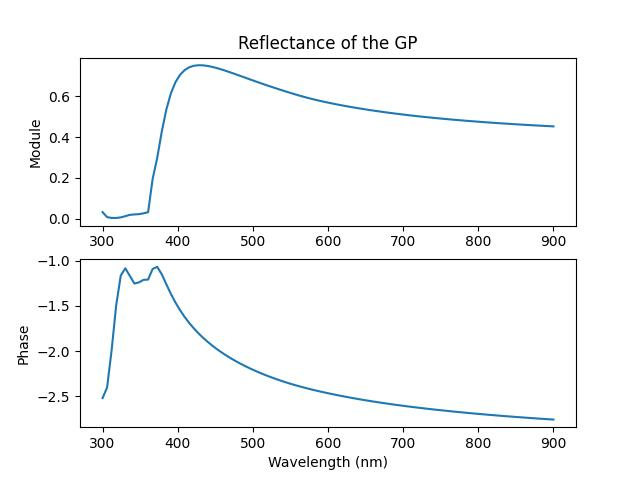
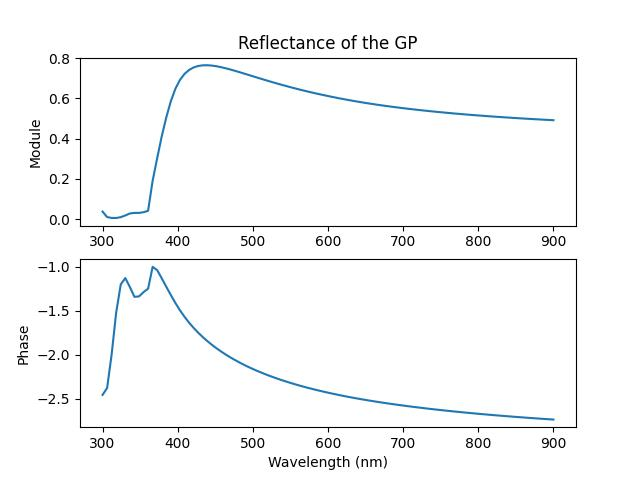
update conique OK sans PML

diff --git a/conique/rcwa2d.py b/conique/rcwa2d.py
@@ -162,48 +162,64 @@ def reflectance(width_reso, width_gap, width_metallicLayer, period, perm_dielec,
     R_GP = abs(r) ** 2
     phase_R_GP = np.angle(r)
 
-    return r, R_GP, phase_R_GP, position_GP
+    return r, R_GP, phase_R_GP, position_GP, neff_GP
 
-wavelength = 600
-
-width_reso = 70
+width_reso = 80
 width_gap = 10
-width_metallicLayer = 220
+width_metallicLayer = 210
 
-#period = 300
 angle = 0
 polarization = 1
 
 perm_dielec = 1
-perm_metal = epsAgbb(wavelength)
 
-n_mod = 70
+n_mod = 150
 
-### Etude de la variation de la réflexion du GP en fonction de la periode
-list_period = np.linspace(100,600,100)
-RGP = np.empty(list_period.size)
-RGP_phase = np.empty(list_period.size)
-idx = 0
-for period in list_period:
-    r, RGP[idx], RGP_phase[idx], position_GP_func = reflectance(width_reso, width_gap, width_metallicLayer, period, perm_dielec, perm_metal, angle, wavelength, polarization, n_mod)
-    idx += 1
+# ### Etude de la variation de la permittivité de l'argent en fonction de la longueur d'onde
+# period = 300
+# list_wavelength = np.linspace(300,900,100)
+# perm_metal = np.empty(list_wavelength.size, dtype = complex)
+# idx = 0
+# for wavelength in list_wavelength:
+#     perm_metal[idx] = epsAgbb(wavelength)
+#     idx += 1
 
-plt.figure(2)
-plt.subplot(211)
-plt.plot(list_period, RGP)
-plt.ylabel("Module")
-plt.title("Reflectance of the GP")
-plt.subplot(212)
-plt.plot(list_period, RGP_phase)
-plt.xlabel("Period (nm)")
-plt.ylabel('Phase')
-plt.show(block=False)
-plt.savefig("R_gp_rcwa2D_depending_period.jpg")
+# plt.figure(1)
+# plt.plot(list_wavelength, perm_metal)
+# plt.ylabel("Real Permittivity")
+# plt.title("Permittivity of the silver")
+# plt.xlabel("Wavelength (nm)")
+# plt.show(block=False)
+# plt.savefig("silver_perm_python.jpg")
 
-### Validation de la fonction reflectance : OK
+# ### Etude de la variation de la réflexion du GP en fonction de la periode
+# wavelength = 600
+# perm_metal = epsAgbb(wavelength)
 
-    ## avec la fonction
-#r_func, R_GP_func, phase_R_GP_func, position_GP_func = reflectance(width_reso, width_gap, width_metallicLayer, period, perm_dielec, perm_metal, angle, wavelength, polarization, n_mod)
+# list_period = np.linspace(100,600,100)
+# RGP = np.empty(list_period.size)
+# RGP_phase = np.empty(list_period.size)
+# idx = 0
+# for period in list_period:
+#     r, RGP[idx], RGP_phase[idx], position_GP_func = reflectance(width_reso, width_gap, width_metallicLayer, period, perm_dielec, perm_metal, angle, wavelength, polarization, n_mod)
+#     idx += 1
+
+# plt.figure(2)
+# plt.subplot(211)
+# plt.plot(list_period, RGP)
+# plt.ylabel("Module")
+# plt.title("Reflectance of the GP")
+# plt.subplot(212)
+# plt.plot(list_period, RGP_phase)
+# plt.xlabel("Period (nm)")
+# plt.ylabel('Phase')
+# plt.show(block=False)
+# plt.savefig("R_gp_rcwa2D_depending_period.jpg")
+
+# ## Validation de la fonction reflectance : OK
+
+#     # avec la fonction
+# r_func, R_GP_func, phase_R_GP_func, position_GP_func = reflectance(width_reso, width_gap, width_metallicLayer, period, perm_dielec, perm_metal, angle, wavelength, polarization, n_mod)
 
 # print("avec la fonction")
 # print("R_GPf = ", R_GP_func)
@@ -211,27 +227,42 @@ plt.savefig("R_gp_rcwa2D_depending_period.jpg")
 # print("rf = ", r_func)
 # print("position GP =", position_GP_func)
 
-# ### Etude de la variation de la réflexion du GP en fonction de la longueur d'onde
-# list_wavelength = np.linspace(300,900,100)
-# RGP = np.empty(list_wavelength.size)
-# RGP_phase = np.empty(list_wavelength.size)
-# idx = 0
-# for wavelength in list_wavelength:
-#     perm_metal = epsAgbb(wavelength)
-#     r, RGP[idx], RGP_phase[idx], position_GP_func = reflectance(width_reso, width_gap, width_metallicLayer, period, perm_dielec, perm_metal, angle, wavelength, polarization, n_mod)
-#     idx += 1
+### Etude de la variation de la réflexion du GP en fonction de la longueur d'onde
+period = 300
+list_wavelength = np.linspace(300,900,100)
+RGP = np.empty(list_wavelength.size)
+RGP_phase = np.empty(list_wavelength.size)
+idx = 0
+neff_GP = np.empty(list_wavelength.size, dtype = complex)
+for wavelength in list_wavelength:
+    perm_metal = epsAgbb(wavelength)
+    #print("perm_metal = ", perm_metal)
+    r, RGP[idx], RGP_phase[idx], position_GP_func, neff_GP[idx] = reflectance(width_reso, width_gap, width_metallicLayer, period, perm_dielec, perm_metal, angle, wavelength, polarization, n_mod)
+    idx += 1
 
-# plt.figure(1)
-# plt.subplot(211)
-# plt.plot(list_wavelength, RGP)
-# plt.ylabel("Module")
-# plt.title("Reflectance of the GP")
-# plt.subplot(212)
-# plt.plot(list_wavelength, RGP_phase)
-# plt.xlabel("Wavelength (nm)")
-# plt.ylabel('Phase')
-# plt.show(block=False)
-# plt.savefig("R_gp_rcwa2D_depending_lambda.jpg")
+plt.figure(1)
+plt.subplot(211)
+plt.plot(list_wavelength, np.real(neff_GP))
+plt.ylabel("Real part")
+plt.title("Effectiv index of the GP")
+plt.subplot(212)
+plt.plot(list_wavelength, np.imag(neff_GP))
+plt.ylabel("Imaginary part")
+plt.xlabel("Wavelength (nm)")
+plt.show(block=False)
+plt.savefig("neff_GP_python.jpg")
+
+plt.figure(2)
+plt.subplot(211)
+plt.plot(list_wavelength, RGP)
+plt.ylabel("Module")
+plt.title("Reflectance of the GP")
+plt.subplot(212)
+plt.plot(list_wavelength, RGP_phase)
+plt.xlabel("Wavelength (nm)")
+plt.ylabel('Phase')
+plt.show(block=False)
+plt.savefig("R_gp_rcwa2D_depending_lambda.jpg")
 
 # ### Validation de la fonction reflectance : OK
 

diff --git a/conique/gp_lambda_dep.m b/conique/gp_lambda_dep.m
@@ -10,15 +10,15 @@ parfor lambda = list_lambda
     j
     e_ag = epsAgbb(lambda);
     gp.a0=0;
-    gp.ox=[0,150,160,300];
+    gp.ox=[0,80,90,300];
     gp.nx=gp.ox;
-    gp.oy=[0,1000];
+    gp.oy=[0,100];
     gp.ny=gp.oy;
-    gp.Mm=70;
+    gp.Mm=30;
     gp.Nm=0;
     gp.mu=[1,1,1];
     gp.eps=[e_ag,1,e_ag];
-    gp.eta=0.99;
+    gp.eta=0.01;
     gp.k0=2*pi/lambda;
     gp.pmlx=[0,0,0];
     gp.pmly=[0];
@@ -33,7 +33,7 @@ parfor lambda = list_lambda
 
     [P1,V1]=reseau(gp);
     [a,b]=min(imag(V1));
-    #n_eff=real(V1(b)/gp.k0)
+    n_eff(j)=real(V1(b)/gp.k0);
 
     [P2, V2] = reseau(plan);
     [c,d] = min(imag(V2));
@@ -46,18 +46,30 @@ parfor lambda = list_lambda
     R_GP(j) = abs(S(b,b))**2;
     phase_R_GP(j) = angle(S(b,b));
 
-    j= j+1;
+    j = j+1;
     #b
 endparfor
 
-figure(1)
-plot(list_lambda, R_GP, 'linewidth', 3)
-xlabel('Wavelength (nm)')
-ylabel('R GP')
-savefig('Rgp_octave_lambda.jpg')
+figure(7)
+subplot(2,1,1)
+plot(list_lambda, real(n_eff))
+ylabel("Real part")
+subplot(2,1,2)
+plot(list_lambda, imag(n_eff))
+ylabel("Imaginary part")
+xlabel("Wavelength (nm)")
+savefig('neff_GP_octave.jpg')
 
-figure(2)
-plot(list_lambda, phase_R_GP, 'linewidth', 3)
+figure(6)
+subplot(2,1,1)
+plot(list_lambda, R_GP, 'linewidth', 2)
+#xlabel('Wavelength (nm)')
+ylabel('Module')
+#savefig('Rgp_octave_lambda.jpg')
+
+#figure(6)
+subplot(2,1,2)
+plot(list_lambda, phase_R_GP, 'linewidth', 2)
 xlabel('Wavelength (nm)')
-ylabel('Phase R GP')
-savefig('Phase_Rgp_octave_lambda.jpg')
+ylabel('Phase')
+savefig('Rgp_octave_lambda.jpg')

diff --git a/conique/verif_eps.m b/conique/verif_eps.m
@@ -1,0 +1,19 @@
+clear
+%lambda = 600;
+%e_ag=epsAgbb(lambda);
+
+N=100;
+list_lambda = linspace(300,900,100);
+j=1;
+
+parfor lambda = list_lambda
+    j
+    e_ag(j) = epsAgbb(lambda);
+    j= j+1;
+endparfor
+
+figure(5)
+plot(list_lambda, e_ag, 'linewidth', 3)
+xlabel('Wavelength (nm)')
+ylabel('silver_permittivity')
+savefig('silver_perm_octave.jpg')
